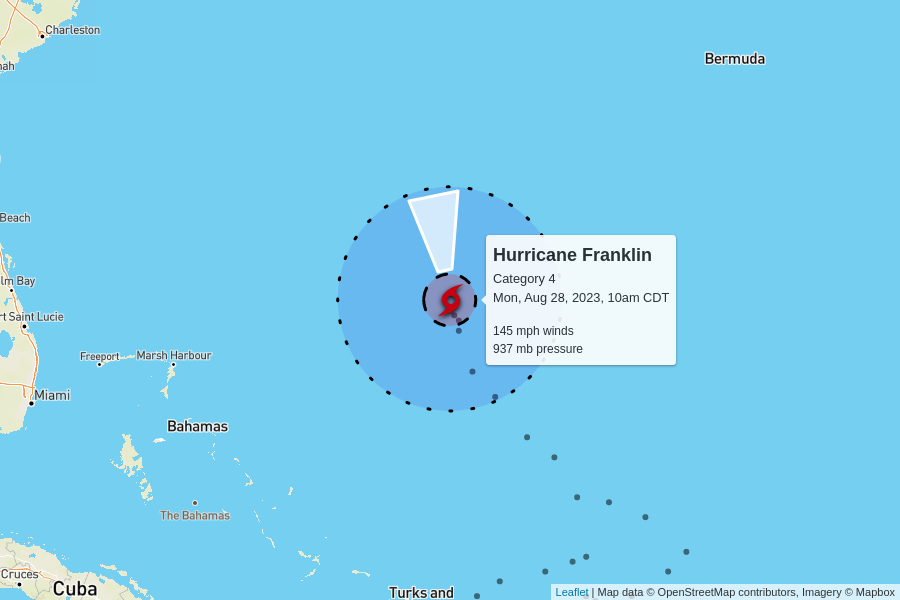
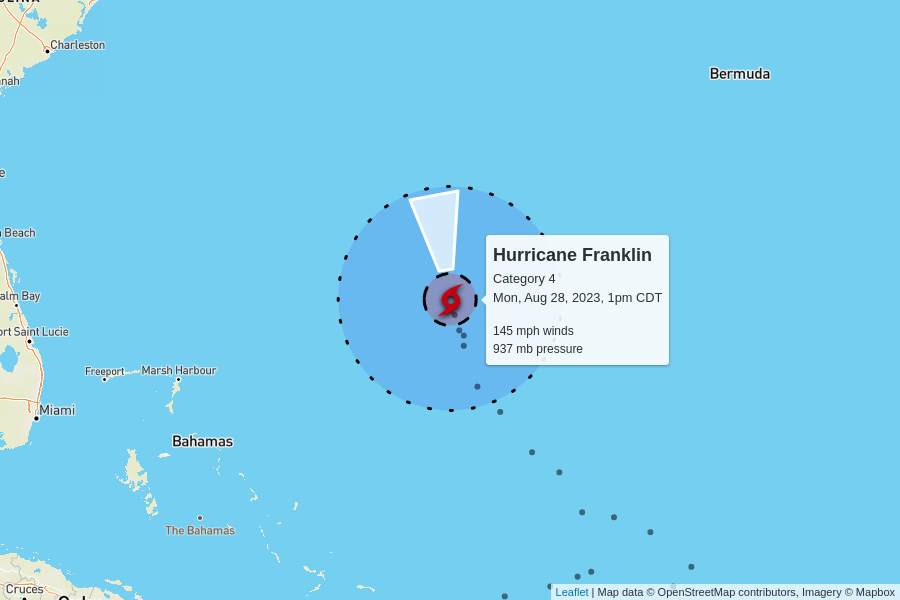
automatic update

diff --git a/docs/index.html b/docs/index.html
@@ -100,7 +100,7 @@
         <td colspan="6" class="storm category-4" >
           <h2>
             Hurricane Franklin - Category 4
-            <p class="updated">last updated <span data-time>2023-08-28T15:00:00.000Z</span></p>
+            <p class="updated">last updated <span data-time>2023-08-28T18:00:00.000Z</span></p>
           </h2>
         </td>
       </tr>
@@ -144,7 +144,7 @@
         <td colspan="6" class="storm category-0" >
           <h2>
             Tropical Storm Idalia
-            <p class="updated">last updated <span data-time>2023-08-28T15:00:00.000Z</span></p>
+            <p class="updated">last updated <span data-time>2023-08-28T18:00:00.000Z</span></p>
           </h2>
         </td>
       </tr>
@@ -159,8 +159,8 @@
       </tr>
       <tr>
         <td class="spacer"></td>
-        <td>65 mph</td>
-        <td>990 mb</td>
+        <td>70 mph</td>
+        <td>987 mb</td>
         <td>
           8 mph to the north
           <br/>
